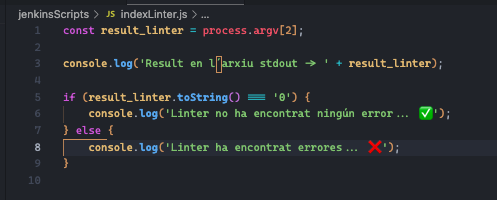
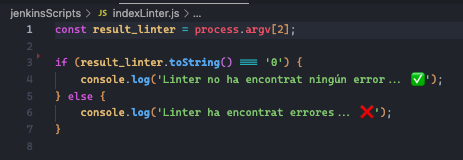
User -> Kike Valero - Modificacions OldREADME

diff --git a/jenkinsScripts/indexLinter.js b/jenkinsScripts/indexLinter.js
@@ -1,7 +1,5 @@
 const result_linter = process.argv[2];
 
-console.log('Result en l´arxiu stdout -> ' + result_linter);
-
 if (result_linter.toString() === '0') {
     console.log('Linter no ha encontrat ningún error... ✅');    
 } else {
